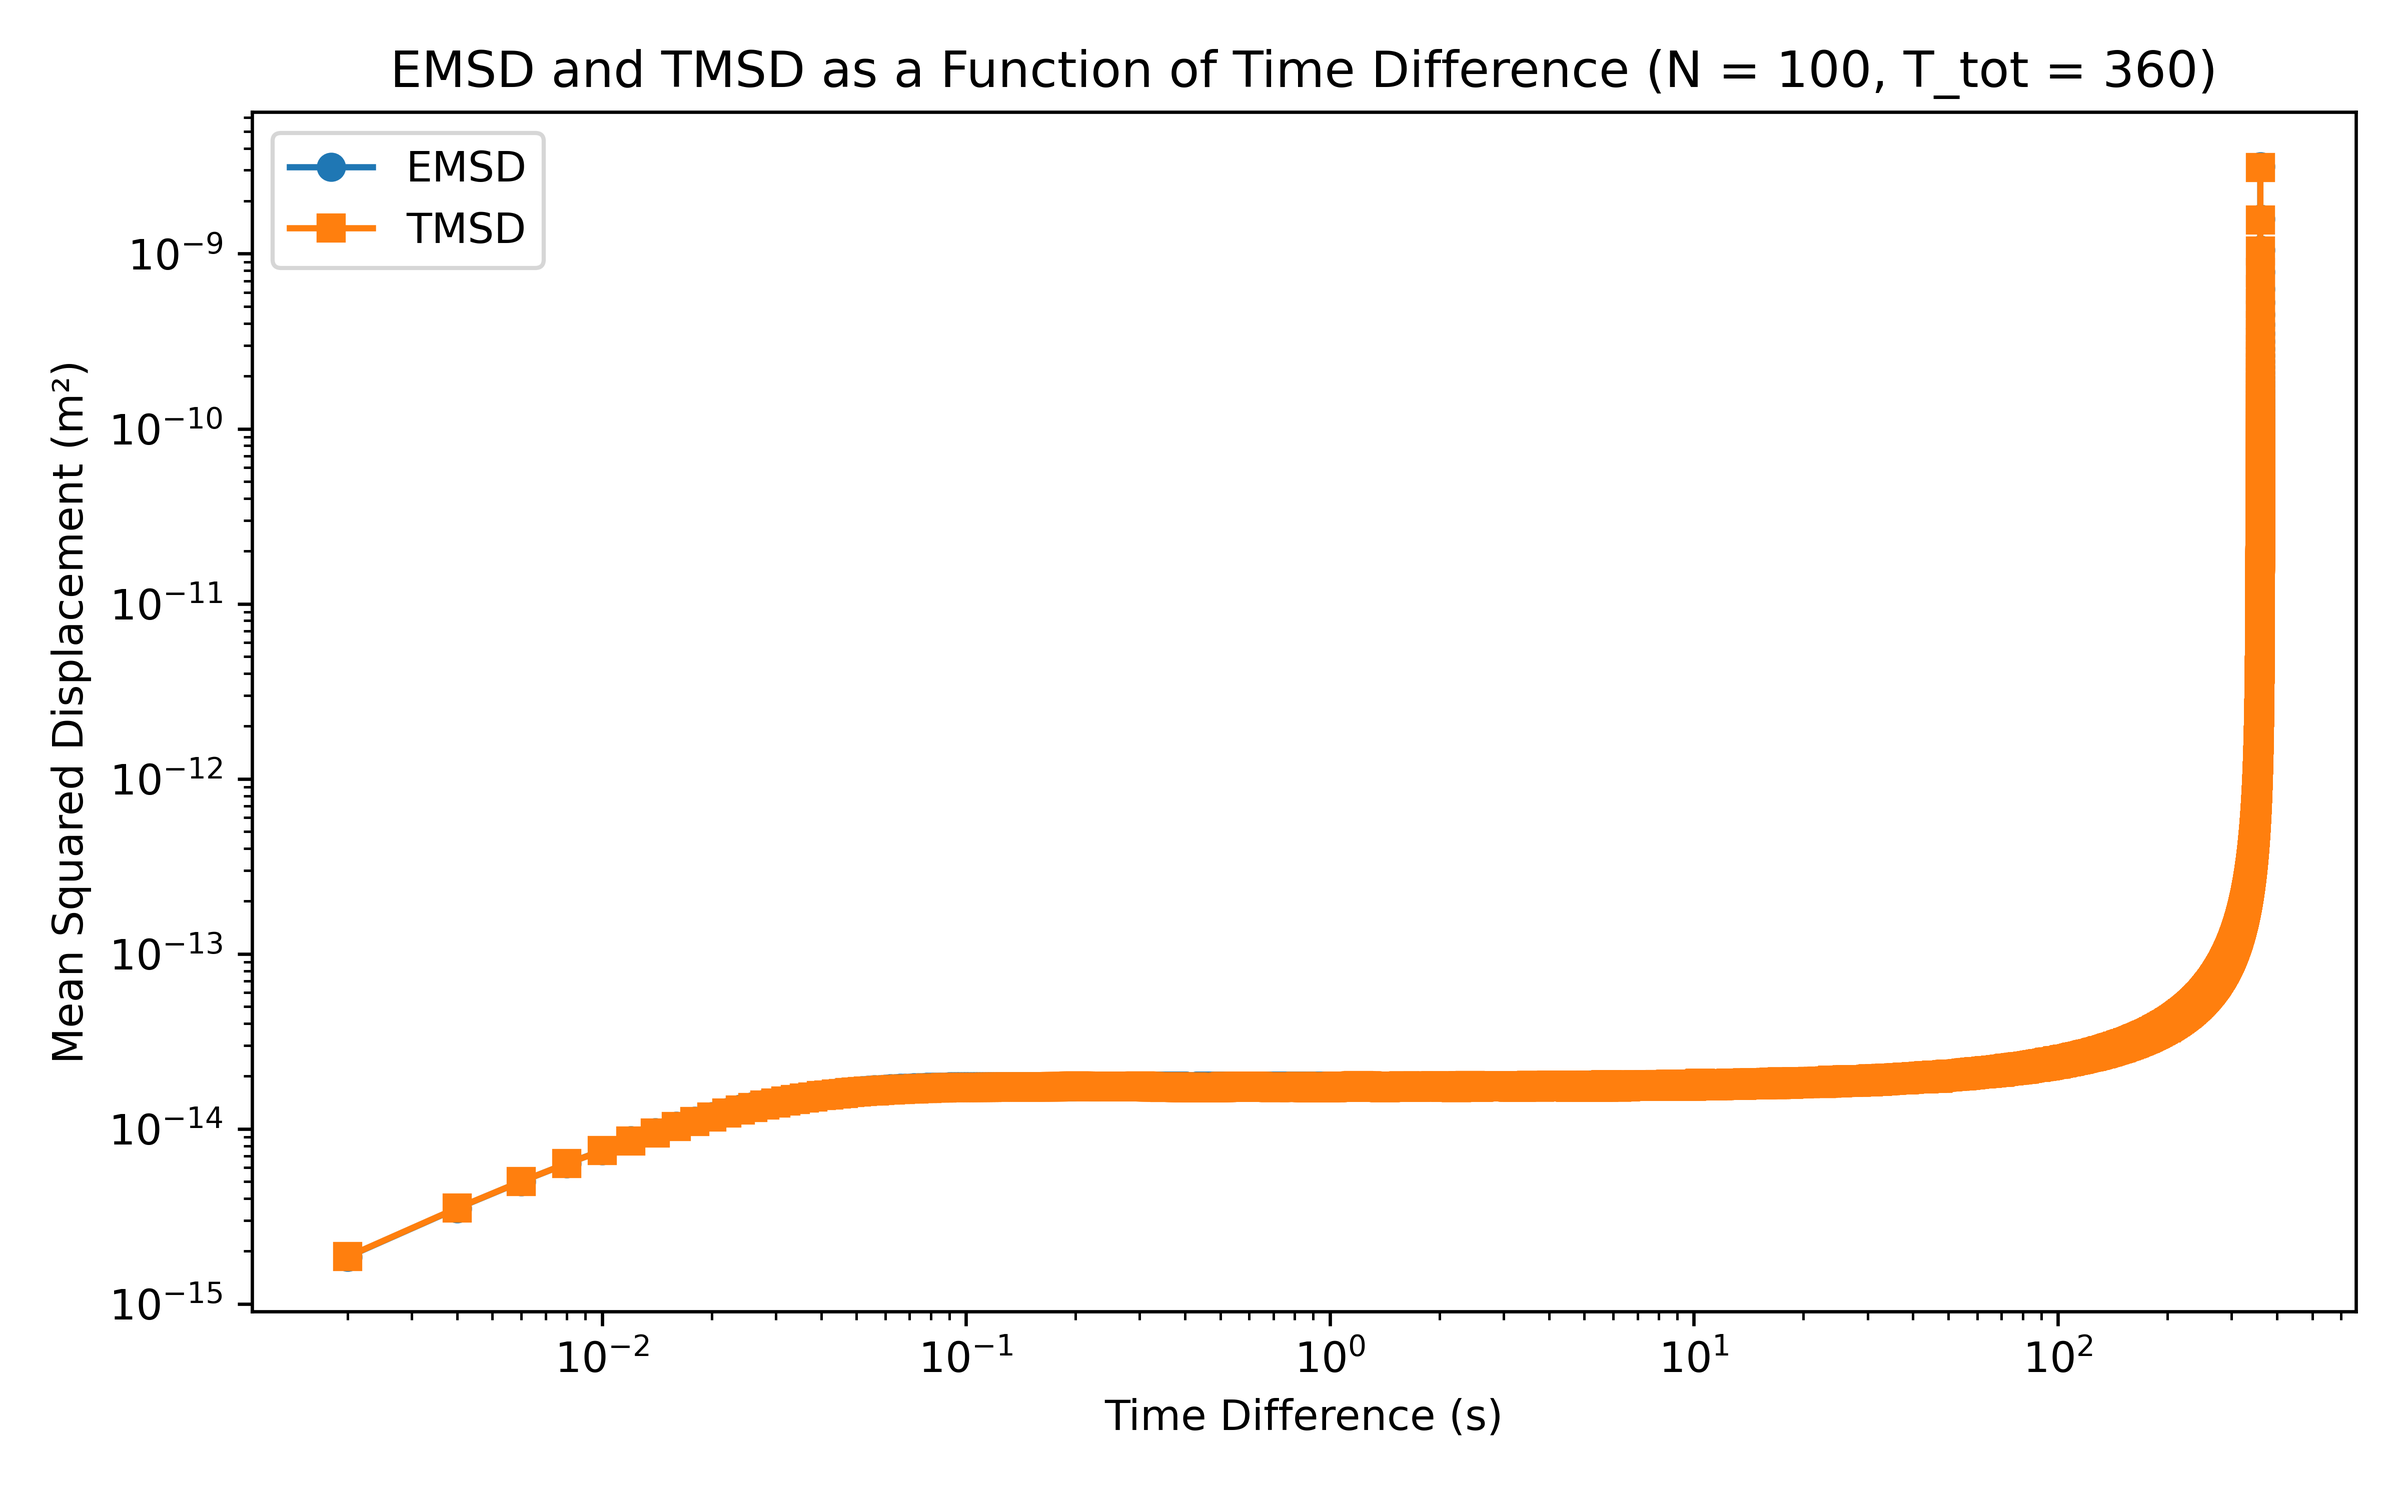
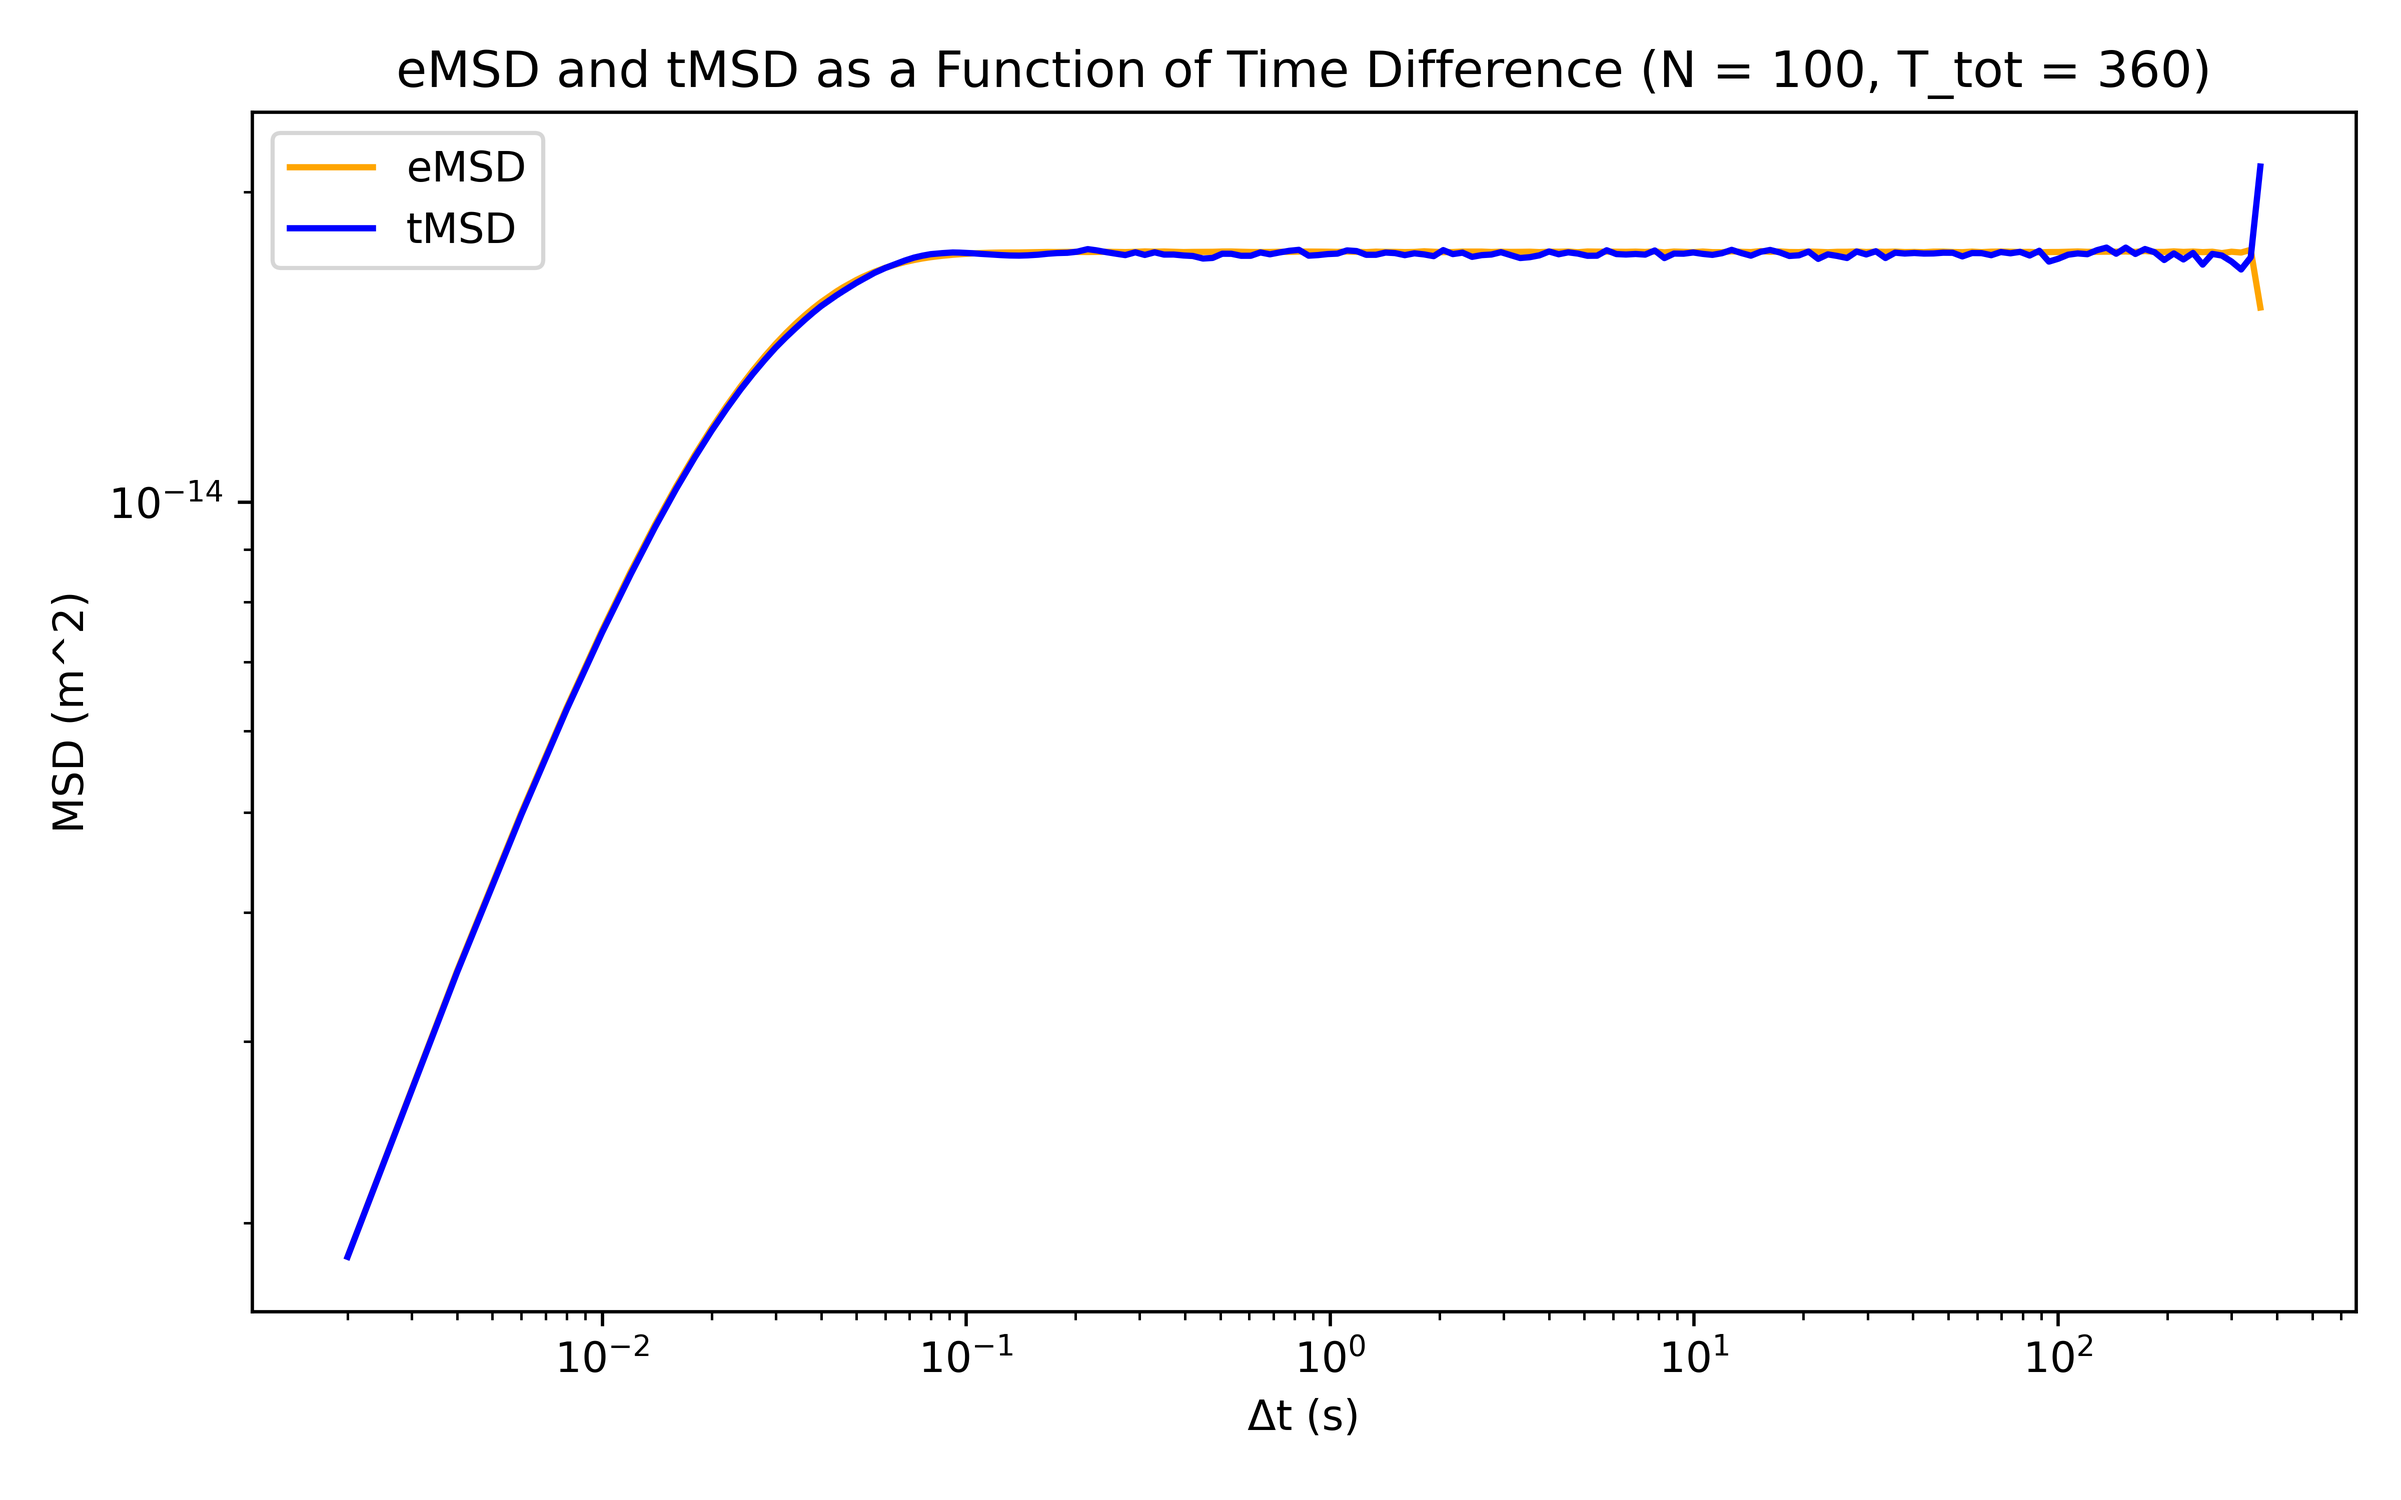
done

diff --git a/HW2/Question2/main.py b/HW2/Question2/main.py
@@ -1,206 +1,148 @@
 import numpy as np
-import time  # Import time module for tracking elapsed time
+import matplotlib.pyplot as plt
+import time
+import sys
 
-# Parameters
-R = 1e-6
-kb = 1.380e-23
-eta = 1e-3
-T = 300
-k = 1e-6
-delta_t = 2e-3
-N_ensemble = 100  # 10/100
+# Physical parameters
+R = 1e-6  # Particle radius (m)
+kb = 1.380e-23  # Boltzmann constant (J/K)
+eta = 1e-3  # Fluid viscosity (Pa·s)
+T = 300  # Temperature (K)
+k = 1e-6  # Trap stiffness (N/m)
+delta_t = 2e-3  # Time step (s)
 
-
-gamma = 6 * np.pi * eta * R
-D = kb * T / gamma
-tau = gamma / k
-T_tot = 360  # 60/360
+# Simulation parameters
+N_ensemble = 100  # Number of trajectories
+T_tot = 360  # Total simulation time (s)
 time_steps = int(T_tot / delta_t)
 times = np.linspace(0, T_tot, time_steps)
 
-
-def generate_noise():
-    return np.random.normal(loc=0, scale=1)
-
-
-# Function to simulate a single trajectory
-def simulate_trajectory():
-    x, y = 0.0, 0.0  # Start at x = 0, y = 0
-    x_vals, y_vals = [x], [y]
-
-    for t in times[1:]:
-        # Update positions using Eq. 6 (Langevin dynamics)
-        x += -k * x / gamma * delta_t + np.sqrt(2 * D * delta_t) * generate_noise()
-        y += -k * y / gamma * delta_t + np.sqrt(2 * D * delta_t) * generate_noise()
-        x_vals.append(x)
-        y_vals.append(y)
-
-    return np.array(x_vals), np.array(y_vals)
+# Derived parameters
+gamma = 6 * np.pi * eta * R  # Friction coefficient
+D = kb * T / gamma  # Diffusion coefficient
+tau = gamma / k  # Trap characteristic time
 
 
-# Function to simulate a single trajectory with equilibration
-def simulate_trajectory_with_equilibration():
-    # Equilibration phase
-    t0 = 5 * tau  # At least a few τ
-    equilibration_steps = int(t0 / delta_t)
+def simulate_ensemble_trajectories(N_ensemble, time_steps, equilibration_steps):
+    """Simulate N_ensemble independent particle trajectories with equilibration."""
+    total_steps = time_steps + equilibration_steps
 
-    x, y = 0.0, 0.0
-    for _ in range(equilibration_steps):
-        x += -k * x / gamma * delta_t + np.sqrt(2 * D * delta_t) * generate_noise()
-        y += -k * y / gamma * delta_t + np.sqrt(2 * D * delta_t) * generate_noise()
+    # Pre-generate all random noise
+    noise_x = np.random.normal(size=(N_ensemble, total_steps))
+    noise_y = np.random.normal(size=(N_ensemble, total_steps))
 
-    # Record x0, y0 after equilibration
-    x_vals, y_vals = [x], [y]
+    # Initialize position arrays
+    x = np.zeros((N_ensemble, total_steps))
+    y = np.zeros((N_ensemble, total_steps))
 
-    # Generate trajectory from x0, y0
-    for t in times[1:]:
-        x += -k * x / gamma * delta_t + np.sqrt(2 * D * delta_t) * generate_noise()
-        y += -k * y / gamma * delta_t + np.sqrt(2 * D * delta_t) * generate_noise()
-        x_vals.append(x)
-        y_vals.append(y)
+    # Simulate trajectories using Eq. 6
+    for t in range(1, total_steps):
+        if t % 20000 == 0:
+            print(f"Simulation progress: {100 * t / total_steps:.1f}%")
 
-    return np.array(x_vals), np.array(y_vals)
+        # Update x and y positions
+        x[:, t] = (
+            x[:, t - 1]
+            - (k / gamma) * x[:, t - 1] * delta_t
+            + np.sqrt(2 * D * delta_t) * noise_x[:, t]
+        )
+        y[:, t] = (
+            y[:, t - 1]
+            - (k / gamma) * y[:, t - 1] * delta_t
+            + np.sqrt(2 * D * delta_t) * noise_y[:, t]
+        )
 
-
-# Simulate ensemble trajectories
-ensemble_x = np.zeros((N_ensemble, time_steps))
-ensemble_y = np.zeros((N_ensemble, time_steps))
-
-for i in range(N_ensemble):
-    x_vals, y_vals = simulate_trajectory()
-    ensemble_x[i, :] = x_vals
-    ensemble_y[i, :] = y_vals
-
-
-# Function to calculate EMSD
-def calculate_emsd(ensemble_x, ensemble_y, times):
-    emsd = []
-    for dt in range(1, len(times)):
-        squared_displacements = []
-        for i in range(N_ensemble):
-            dx = ensemble_x[i, dt:] - ensemble_x[i, :-dt]
-            dy = ensemble_y[i, dt:] - ensemble_y[i, :-dt]
-            squared_displacements.append(np.mean(dx**2 + dy**2))
-        emsd.append(np.mean(squared_displacements))
-    return np.array(emsd)
+    # Return only the equilibrated portion
+    return x[:, equilibration_steps:], y[:, equilibration_steps:]
 
 
-# Function to calculate TMSD
-def calculate_tmsd(trajectory_x, trajectory_y, times):
-    tmsd = []
-    total_steps = len(times) - 1  # Total number of time differences
-    start_time = time.time()  # Record the start time
-
-    for dt in range(1, len(times)):
-        squared_displacements = []
-        for t in range(len(times) - dt):
-            dx = trajectory_x[t + dt] - trajectory_x[t]
-            dy = trajectory_y[t + dt] - trajectory_y[t]
-            squared_displacements.append(dx**2 + dy**2)
-        tmsd.append(np.mean(squared_displacements))
-
-        # Progress indicator with time estimation
-        if dt % 100 == 0 or dt == total_steps:  # Update every 100 steps or at the end
-            elapsed_time = time.time() - start_time
-            progress = dt / total_steps
-            estimated_total_time = elapsed_time / progress
-            time_left = estimated_total_time - elapsed_time
-            print(
-                f"TMSD Calculation Progress: {progress * 100:.2f}% | Time Left: {time_left:.2f} seconds"
-            )
-
-    return np.array(tmsd)
+def logspaced_lags(N, num_lags=200):
+    """Generate logarithmically spaced lag values for efficient MSD calculation."""
+    lags = np.unique(np.logspace(0, np.log10(N - 1), num=num_lags, dtype=int))
+    return lags[lags > 0]  # Remove zero lag
 
 
-def fast_tmsd(x, y):
-    """
-    Compute the time-averaged MSD using FFT convolution.
-    Works in O(N log N), extremely fast.
-    """
-
-    N = len(x)
-
-    # Compute squared magnitudes
-    r2 = x * x + y * y
-    r2_sum = np.zeros(N)
-
-    # Autocorrelation via FFT
-    def autocorr_fft(a):
-        n = 1 << (2 * N - 1).bit_length()  # next power of 2
-        A = np.fft.fft(a, n=n)
-        C = A * np.conjugate(A)
-        c = np.fft.ifft(C).real
-        return c[:N]
-
-    Cx = autocorr_fft(x)
-    Cy = autocorr_fft(y)
-
-    # Number of contributing terms for each lag
-    norm = np.arange(N, 0, -1)
-
-    # MSD formula
-    msd_x = (r2.sum() - 2 * Cx) / norm + r2[:N] / norm
-    msd_y = (r2.sum() - 2 * Cy) / norm + r2[:N] / norm
-
-    return msd_x + msd_y
-
-
-def fast_emsd(ensemble_x, ensemble_y):
-    """
-    Vectorized ensemble-averaged MSD.
-    Much faster than looping over all dt.
-    """
-
+def calculate_emsd(ensemble_x, ensemble_y, num_lags=200):
+    """Calculate ensemble-averaged MSD (eMSD) using log-spaced lags."""
     N_ens, N = ensemble_x.shape
-    msd = np.zeros(N - 1)
+    lags = logspaced_lags(N, num_lags)
+    msd = np.empty(len(lags))
+    start = time.time()
 
-    for x, y in zip(ensemble_x, ensemble_y):
-        msd += fast_tmsd(x, y)[1:]
+    for i, lag in enumerate(lags):
+        # Calculate displacement for all particles at this lag
+        dx = ensemble_x[:, lag:] - ensemble_x[:, :-lag]
+        dy = ensemble_y[:, lag:] - ensemble_y[:, :-lag]
+        msd[i] = np.mean(dx**2 + dy**2)
 
-    return msd / N_ens
+        # Print progress every 10%
+        if i % max(1, len(lags) // 10) == 0 or i == len(lags) - 1:
+            elapsed = time.time() - start
+            percent = 100 * (i + 1) / len(lags)
+            est_left = (elapsed / percent * 100 - elapsed) if percent > 0 else 0
+            print(f"eMSD progress: {percent:.1f}% | Time left: {est_left:.1f}s")
+            sys.stdout.flush()
+
+    return lags, msd
 
 
-emsd = fast_emsd(ensemble_x, ensemble_y)
-tmsd = fast_tmsd(ensemble_x[0], ensemble_y[0])[1:]
+def calculate_tmsd(x, y, num_lags=200):
+    """Calculate time-averaged MSD (tMSD) for a single trajectory using log-spaced lags."""
+    N = len(x)
+    lags = logspaced_lags(N, num_lags)
+    msd = np.empty(len(lags))
+    start = time.time()
 
-# Time differences for plotting
-time_differences = times[1:]
+    for i, lag in enumerate(lags):
+        # Calculate displacement at this lag
+        dx = x[lag:] - x[:-lag]
+        dy = y[lag:] - y[:-lag]
+        msd[i] = np.mean(dx**2 + dy**2)
 
-# Plot ensemble averages
-import matplotlib.pyplot as plt
+        # Print progress every 10%
+        if i % max(1, len(lags) // 10) == 0 or i == len(lags) - 1:
+            elapsed = time.time() - start
+            percent = 100 * (i + 1) / len(lags)
+            est_left = (elapsed / percent * 100 - elapsed) if percent > 0 else 0
+            print(f"tMSD progress: {percent:.1f}% | Time left: {est_left:.1f}s")
+            sys.stdout.flush()
 
-# Plot EMSD and TMSD in a log-log plot
-plt.figure(figsize=(8, 5))
-plt.loglog(time_differences, emsd, label="EMSD", marker="o")
-plt.loglog(time_differences, tmsd, label="TMSD", marker="s")
-plt.xlabel("Time Difference (s)")
-plt.ylabel("Mean Squared Displacement (m²)")
-plt.title(
-    f"EMSD and TMSD as a Function of Time Difference (N = {N_ensemble}, T_tot = {T_tot})"
+    return lags, msd
+
+
+# Main simulation
+print("Starting simulation with equilibration...")
+t0 = 5 * tau  # Equilibration time (5 trap characteristic times)
+equilibration_steps = int(t0 / delta_t)
+ensemble_x, ensemble_y = simulate_ensemble_trajectories(
+    N_ensemble, time_steps, equilibration_steps
 )
+
+print("\nCalculating eMSD...")
+lags_emsd, emsd = calculate_emsd(ensemble_x, ensemble_y)
+
+print("\nCalculating tMSD...")
+lags_tmsd, tmsd = calculate_tmsd(ensemble_x[0], ensemble_y[0])
+
+# Convert lag indices to actual time differences
+time_differences_emsd = times[lags_emsd]
+time_differences_tmsd = times[lags_tmsd]
+
+# Plot results
+plt.figure(figsize=(8, 5))
+plt.loglog(
+    time_differences_emsd, emsd, label="eMSD", color="orange", marker="o", markersize=3
+)
+plt.loglog(
+    time_differences_tmsd, tmsd, label="tMSD", color="blue", marker="s", markersize=3
+)
+plt.xlabel("Δt (s)")
+plt.ylabel("MSD (m²)")
+plt.title(f"eMSD and tMSD vs Time Difference (N={N_ensemble}, T_tot={T_tot}s)")
 plt.legend()
+plt.grid(True, alpha=0.3)
 plt.tight_layout()
 plt.savefig(f"EMSD_TMSD_LogLog_{N_ensemble}.png", dpi=600)
 plt.show()
 
-# Plot EMSD in a log-log plot (separate figure)
-plt.figure(figsize=(8, 5))
-plt.loglog(time_differences, emsd, label="EMSD", marker="o")
-plt.xlabel("Time Difference (s)")
-plt.ylabel("Mean Squared Displacement (m²)")
-plt.title(f"EMSD as a Function of Time Difference (N = {N_ensemble}, T_tot = {T_tot})")
-plt.legend()
-plt.tight_layout()
-plt.savefig(f"EMSD_LogLog_{N_ensemble}.png", dpi=600)
-plt.show()
-
-# Plot TMSD in a log-log plot (separate figure)
-plt.figure(figsize=(8, 5))
-plt.loglog(time_differences, tmsd, label="TMSD", marker="s")
-plt.xlabel("Time Difference (s)")
-plt.ylabel("Mean Squared Displacement (m²)")
-plt.title(f"TMSD as a Function of Time Difference (N = {N_ensemble}, T_tot = {T_tot})")
-plt.legend()
-plt.tight_layout()
-plt.savefig(f"TMSD_LogLog_{N_ensemble}.png", dpi=600)
-plt.show()
+print("\nDone! Plot saved.")
